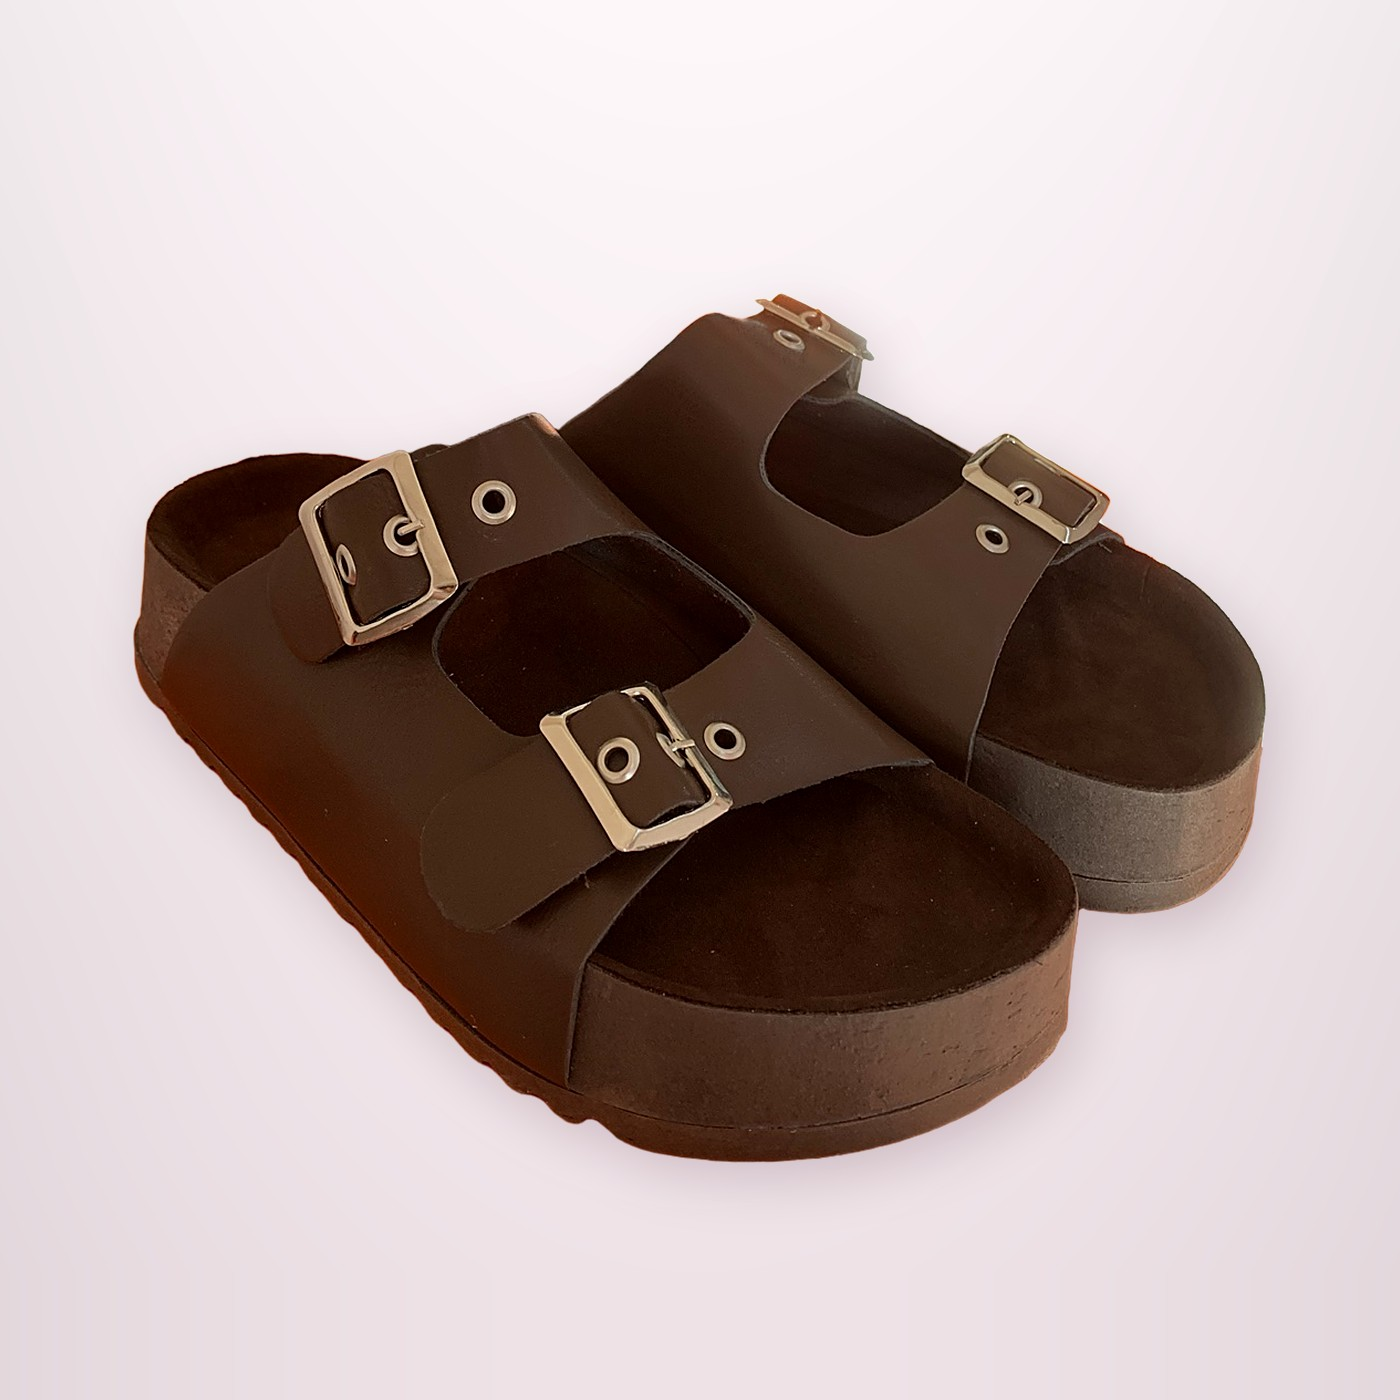
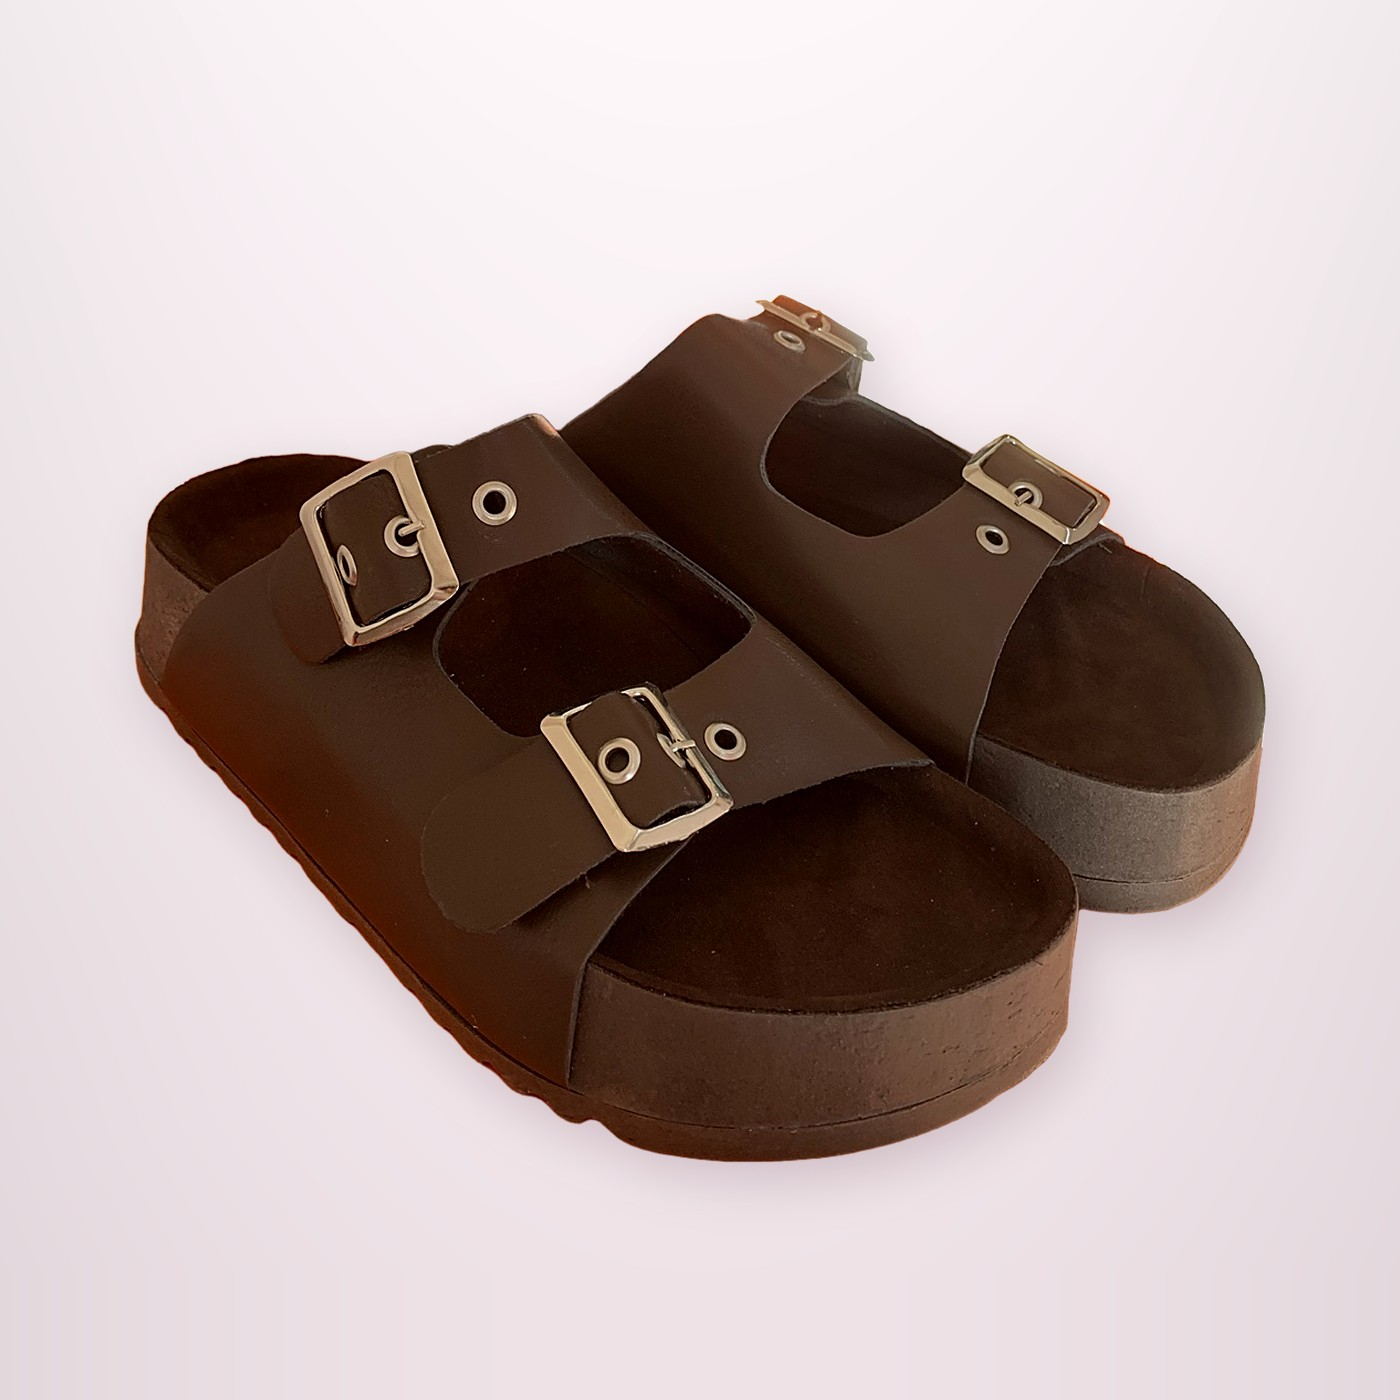
Fotos 106 y 101 chocolate con la suela completa
Claude-Session: https://claude.ai/code/session_016kC1pPyL2jkNLS5KGy46ZW

diff --git a/CLAUDE.md b/CLAUDE.md
@@ -62,7 +62,7 @@ No hay Node ni Python en las computadoras. `.claude/launch.json` → "tienda" le
 - Chavitos combinados (id 103, 2026-10-18, sección Chavitos; antes "Chavitos de cuero y gamuza": 2026-10-21 el dueño aclaró que son de ECOCUERO, no cuero —no decir "cuero"—; chelsea combinado liso + gamuzado, suela de crepe): Negro, $33.000 ($30.000 + 10%), talles 35–40, foto propia (reflejo naranja de la caja: en el cuero a gris, en la suela a color crepé; modo `crepe` de `plateada.py`).
 - Sandalia Carla (id 104, 2026-10-19, nombre del dueño): Chocolate, $33.000 ($30.000 + 10%), talles 35–40, foto propia (se borraron los logos "Tamara Rey" de las plantillas y el naranja de la caja que se veía por los ojalillos; `BORRAR`/`CAJAFUERA`/`NOCAJA` en `plateada.py`).
 - 2026-10-25, cinco productos nuevos (talles 35–40, fotos propias con el fondo de estudio): Sandalia franciscana símil víbora (id 105, Violeta, cuero), Sandalia franciscana con plataforma (id 106, Negro, cuero; la plantilla roja del talón es real), Sandalia de dos tiras animal print (id 107, NO es de cuero: no decir cuero), Sandalia símil víbora con dos hebillas y anillo al dedo (id 108, Camel, cuero; se borró el hilo de la etiqueta y el recorte se armó también por color, `TONO`/`OSCURO`/`BLANCO_DESDE` en `plateada.py`): las sandalias a $38.500 ($35.000 + 10%). Sueco símil víbora con hebilla (id 109, Blanco, $33.000 = $30.000 + 10%; material no confirmado; se borraron los logos "Tamara Rey" de las plantillas y el reflejo naranja de la caja, modo `salmon`).
-- Fotos cortadas (2026-10-29, el dueño: "las fotos de las sandalias están cortadas"): el dueño reenvió las fotos y se rehicieron con el recuadro amplio (`recorte.py` en el scratchpad, reemplaza a `plateada.py`; deja `-chk.jpg` con la máscara para revisar que no falte nada): 105, 106, 107, 108, Petty Vaca (81), 101 Habano y Chocolate y 104 Carla. 2026-10-29 también 92 Umma (pared naranja: `HUECO_NARANJA`, `SIN_CARTON` solo en una zona, modo `negro2`, `BORDE` para bordes lisos). Siguen pendientes de foto nueva: 93 charol, 94 negro, 99 plata y 87 blanco.
+- Fotos cortadas (2026-10-29, el dueño: "las fotos de las sandalias están cortadas"): el dueño reenvió las fotos y se rehicieron con el recuadro amplio (`recorte.py` en el scratchpad, reemplaza a `plateada.py`; deja `-chk.jpg` con la máscara para revisar que no falte nada): 105, 106, 107, 108, Petty Vaca (81), 101 Habano y Chocolate y 104 Carla. 2026-10-29 también 92 Umma (pared naranja: `HUECO_NARANJA`, `SIN_CARTON` solo en una zona, modo `negro2`, `BORDE` para bordes lisos). Ojo: 106 y 101 chocolate salieron primero con la suela cortada porque el recuadro terminaba antes que el calzado; `recorte.py` ahora imprime "TOCA BORDE" si el calzado toca el recuadro: no publicar nunca una foto con ese aviso. La 108 (camel) viene cortada en la foto original (el talón de atrás sale del cuadro). Siguen pendientes de foto nueva: 93 charol, 94 negro, 99 plata y 87 blanco.
 - Sin la palabra "chinela" (2026-10-04, pedido del dueño): ids 52/53/54/55 pasaron a "Sandalia gomón con ojalillos", "Sandalia con strass y anillo al dedo", "Sandalia gomón con dos hebillas" (era "estilo Birk", marca ajena) y "Sandalia gomón con tachas cruzadas". Usar "Sandalia" o "Gomón".
 - Bota texana corta (id 2): 2026-09-29 se le unió la "Bota texana punta cuadrada" (id 13, ahora `oculto`) a pedido del dueño. Colores: Suela, Marrón (foto de la ex punta cuadrada), Negro y Blanco (fotos reales). Ya no hay foto pendiente del negro punta cuadrada.
 - Zapatillas animal print (id 69) y animal print con plataforma (id 70) (antes "leopardo", renombradas por el dueño): fotos propias del local (2026-09-29), talles 35–40. Precio cargado por el dueño desde el editor (en la base de datos, no en productos.js).
